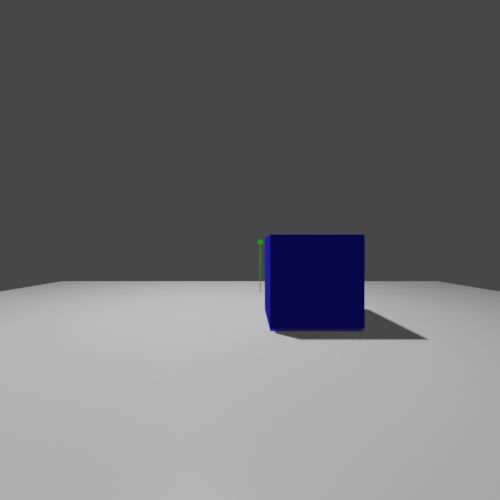
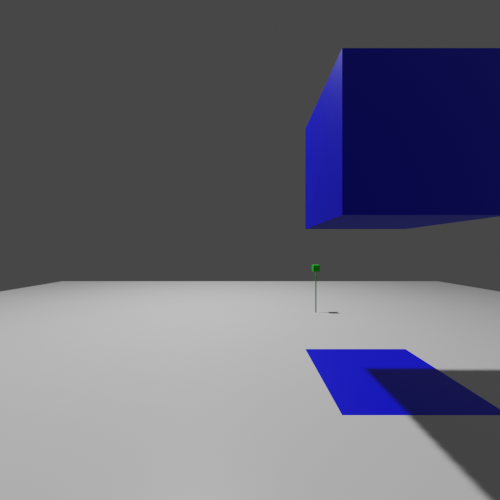
another 100 examples

Changed region(s): [[0.51, 0.09, 1.0, 1.0]]

diff --git a/target_pose/single_cube_training.py b/target_pose/single_cube_training.py
@@ -5,14 +5,25 @@ import socket
 import pickle
 import sounddevice as sd
 import json
-import speech_recognition as sr
+# import speech_recognition as sr
 from scipy.io.wavfile import write
-import wavio   
+import wavio
 
-def add_cube(min_max_size_cubes):
-    size = min_max_size_cubes[0] + np.random.rand()*(min_max_size_cubes[1] - min_max_size_cubes[0])
 
-    x = 1 + np.random.rand()*4
+import azure.cognitiveservices.speech as speechsdk
+
+speech_key, service_region = '4203927a90be4b1785cee6bdd8310f48', "eastus"
+speech_config = speechsdk.SpeechConfig(subscription=speech_key, region=service_region)
+
+speech_recognizer = speechsdk.SpeechRecognizer(speech_config=speech_config)
+
+
+result = speech_recognizer.recognize_once()
+
+
+def add_cube():
+    size = 1.
+    x = 2. + np.random.rand()*4
     y = - x +  np.random.rand()* 2 * x
     z = np.random.rand()*x
     cube = np.array([x,y,z,size,size,size])
@@ -37,29 +48,51 @@ def indices_to_position(cube,indices):
 def write_to_csv(training_dict,path):
     with open(path, 'a') as csv_file:
         wr = csv.writer(csv_file)
-        wr.writerow(str(training_dict)) 
+        wr.writerow(str(training_dict))
+
+def transcribe(counter,path):
+
+    r = sr.Recognizer()
+    myarray = np.load(path + '/recordings/recording_{}.npy'.format(str(counter).zfill(4)))
+    wavio.write(path + '/recordings/recording_{}.wav'.format(str(counter).zfill(4)), myarray, 44100 ,sampwidth=1)
+    harvard = sr.AudioFile(path + '/recordings/recording_{}.wav'.format(str(counter).zfill(4)))
+    with harvard as source:
+        audio = r.record(source)
+    transcription = r.recognize_google(audio,language='en-IN',show_all = False)
+    print(transcription)
+    return transcription
+
+def transcribe_azure(speech_config,counter,path):
+
+    myarray = np.load(path + '/recordings/recording_{}.npy'.format(str(counter).zfill(4)))
+    wavio.write(path + '/recordings/recording_{}.wav'.format(str(counter).zfill(4)), myarray, 44100 ,sampwidth=1)
+
+    audio_input = speechsdk.audio.AudioConfig(filename=path + '/recordings/recording_{}.wav'.format(str(counter).zfill(4)))
+
+    speech_recognizer = speechsdk.SpeechRecognizer(speech_config=speech_config, audio_config=audio_input)
+
+    result = speech_recognizer.recognize_once()
+    print(result.text)
+    return result.text
 
 def main():
-
-
+    
     HOST = '127.0.0.1'  # The server's hostname or IP address
     PORT = 65440     # The port used by the server
 
-    min_max_size_cubes = np.array([0.4,2.])
 
-    path = os.path.dirname(os.path.realpath(__file__)) + '/training_data'
+    path = os.path.dirname(os.path.realpath(__file__)) + '/training_data1'
 
     with socket.socket(socket.AF_INET, socket.SOCK_STREAM) as s:
         s.connect((HOST, PORT)) 
         print('Connected to server')
 
         #while True:
-        for i in range(50):
+        for i in range(100):
 
             with open(path + '/counter.txt', "r") as file:
                 counter = file.readline()
-
-            cube = add_cube(min_max_size_cubes)
+            cube = add_cube()
 
             target_pose = generate_pose(cube)
 
@@ -69,19 +102,23 @@ def main():
                 data = s.recv(1024)
                 if data == b'done':
                     break
-            description = input('Describe the pose: ')
-            # print('Start recording ...')
-            # duration = 5  # seconds
-            # fs = 44100
-            # myrecording = sd.rec(int(duration * fs), samplerate=fs, channels=1)
-            # sd.wait()
-            # print('Finished recording')
-            # np.save(path+'/recordings/recording_{}.npy'.format(str(counter).zfill(4)),myrecording)
-            training_dict['description'] = description
-            json.dump(training_dict, open('{}/data.csv'.format(path), 'a' ))
+            #description = input('Describe the pose: ')
+            input('Press anything to start recording')
+            print('Start recording ...')
+            duration = 5  # seconds
+            fs = 44100
+            myrecording = sd.rec(int(duration * fs), samplerate=fs, channels=1)
+            sd.wait()
+            print('Finished recording')
+            np.save(path+'/recordings/recording_{}.npy'.format(str(counter).zfill(4)),myrecording)
+
+            #transcription = transcribe_azure(speech_config,counter,path)
+
 
             with open('{}/data.csv'.format(path), 'a' ) as file:
-                file.write('\n')
+                if counter == "0":
+                    file.write('{},{},{},{},{}\n'.format('ID','cube','target_pose','transcription','correction'))
+                file.write('{},{},{},\n'.format(training_dict["ID"],training_dict["cube"],training_dict["target_pose"]))
             with open(path + '/counter.txt', "w") as file:
                 file.write(str(int(counter)+1))
 main()

diff --git a/target_pose/play_recording.py b/target_pose/play_recording.py
@@ -5,26 +5,28 @@ import speech_recognition as sr
 from scipy.io.wavfile import write
 import wavio
 
+
+
 r = sr.Recognizer()
 
 fs = 44100
-path = os.path.dirname(os.path.realpath(__file__)) + '/training_data'
-myarray = np.load(path + '/recordings/recording_0014.npy')
+path = os.path.dirname(os.path.realpath(__file__)) + '/training_data1'
+myarray = np.load(path + '/recordings/recording_0003.npy')
 print(myarray)
 print(myarray.shape)
 sd.play(myarray, fs)
 sd.wait()
 
 
-wavio.write(path + '/recordings/recording_0014.wav', myarray, fs ,sampwidth=1)
+# wavio.write(path + '/recordings/recording_0014.wav', myarray, fs ,sampwidth=1)
 
 
-harvard = sr.AudioFile(path + '/recordings/recording_0014.wav',)
-with harvard as source:
-    audio = r.record(source)
+# harvard = sr.AudioFile(path + '/recordings/recording_0014.wav',)
+# with harvard as source:
+#     audio = r.record(source)
 
-print(type(audio))
-print(r.recognize_google(audio,language='en-IN',show_all = True))
+# print(type(audio))
+# print(r.recognize_google(audio,language='en-IN',show_all = True))
 
 
 
